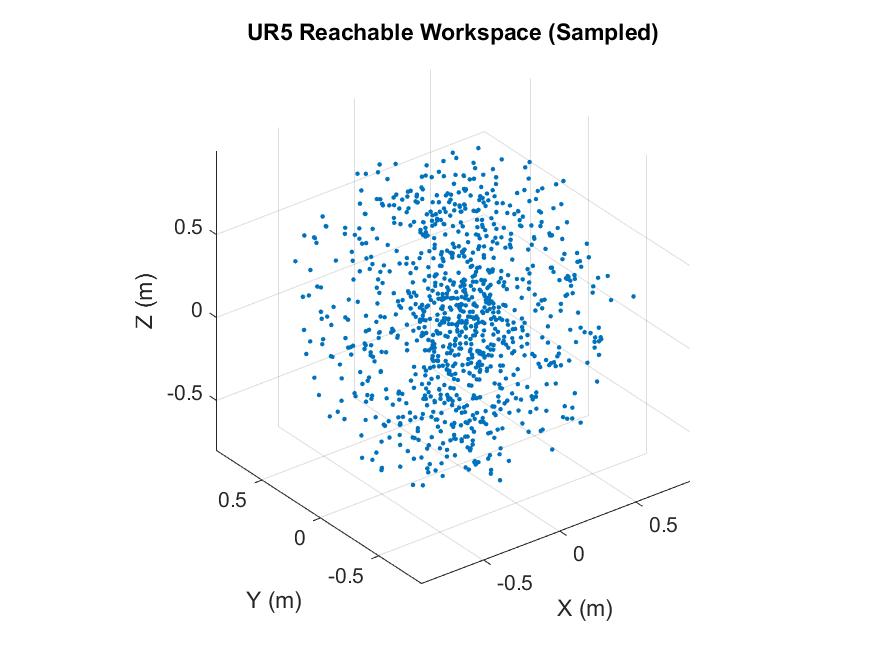
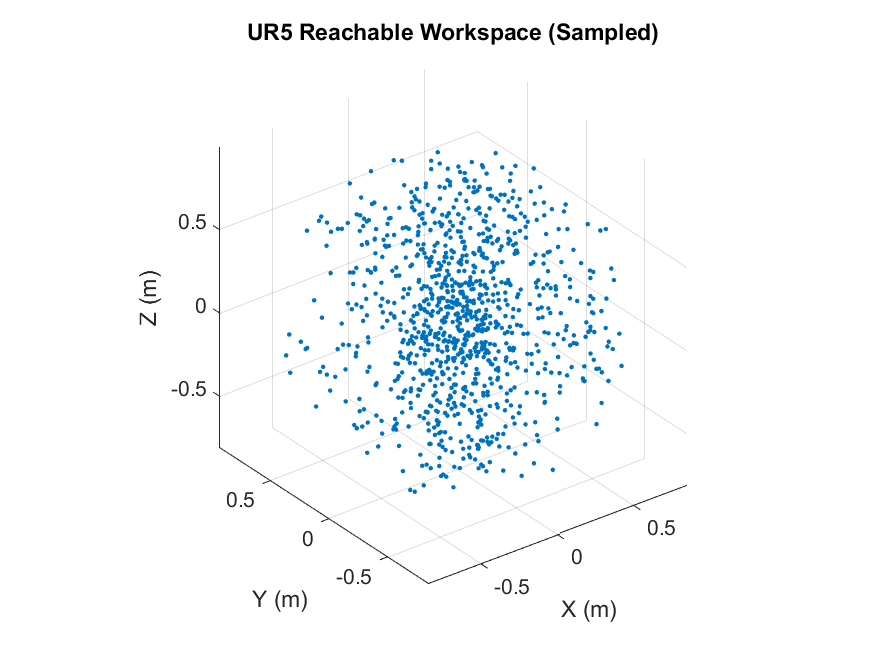
Improved workspace analysis: added deterministic random seed for reproducibility and updated workspace visualization

diff --git a/matlab/tests/workspace_analysis_ur5.m b/matlab/tests/workspace_analysis_ur5.m
@@ -3,7 +3,7 @@ clear;
 close all;
 
 num_samples = 1000;
-
+rng(42);
 positions = zeros(num_samples,3);
 
 for i = 1:num_samples

diff --git a/docs/sprint_reports/sprint_1.md b/docs/sprint_reports/sprint_1.md
@@ -6,9 +6,9 @@
 - Estimate reachable workspace via Monte Carlo sampling
 
 ## Results
-- Horizontal reach ≈ 0.93 m
-- Max vertical reach ≈ 1.00 m
-- Min vertical reach ≈ -0.83 m
+- Horizontal reach ≈ 0.932 m
+- Max vertical reach ≈ 0.9925 m
+- Min vertical reach ≈ -0.8094 m
 - Rotation matrix determinant verified as 1
 
 ## Conclusion
